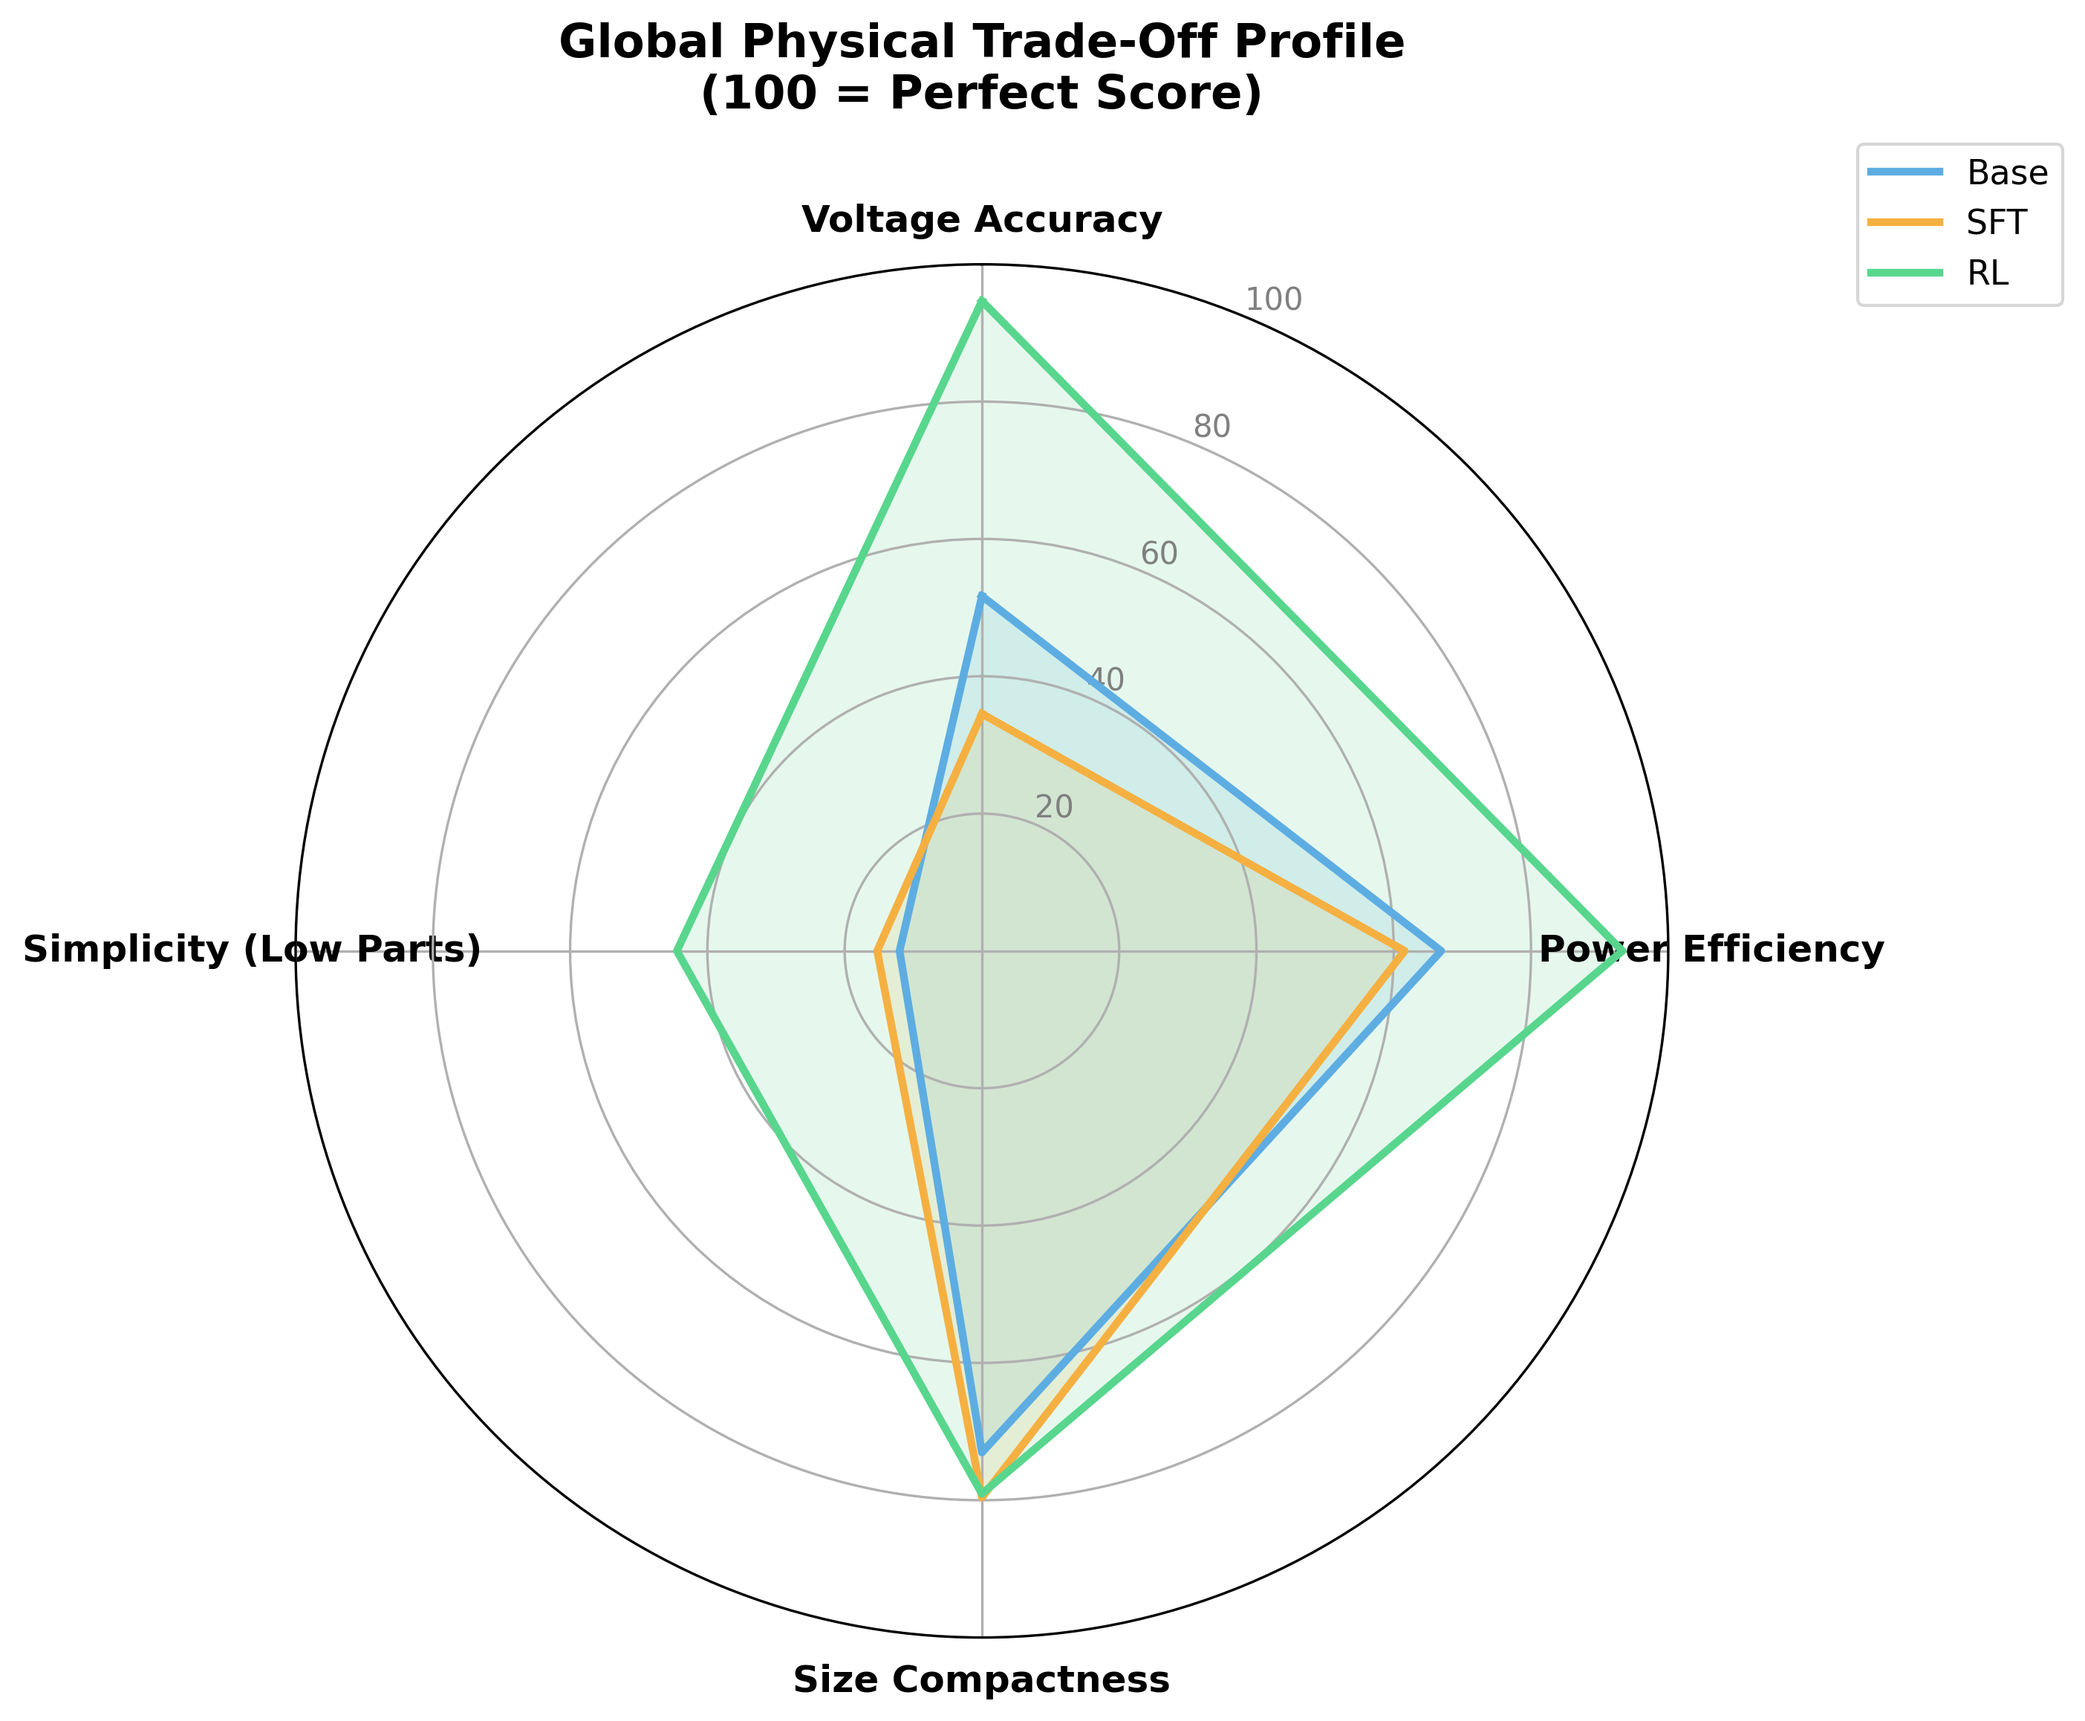
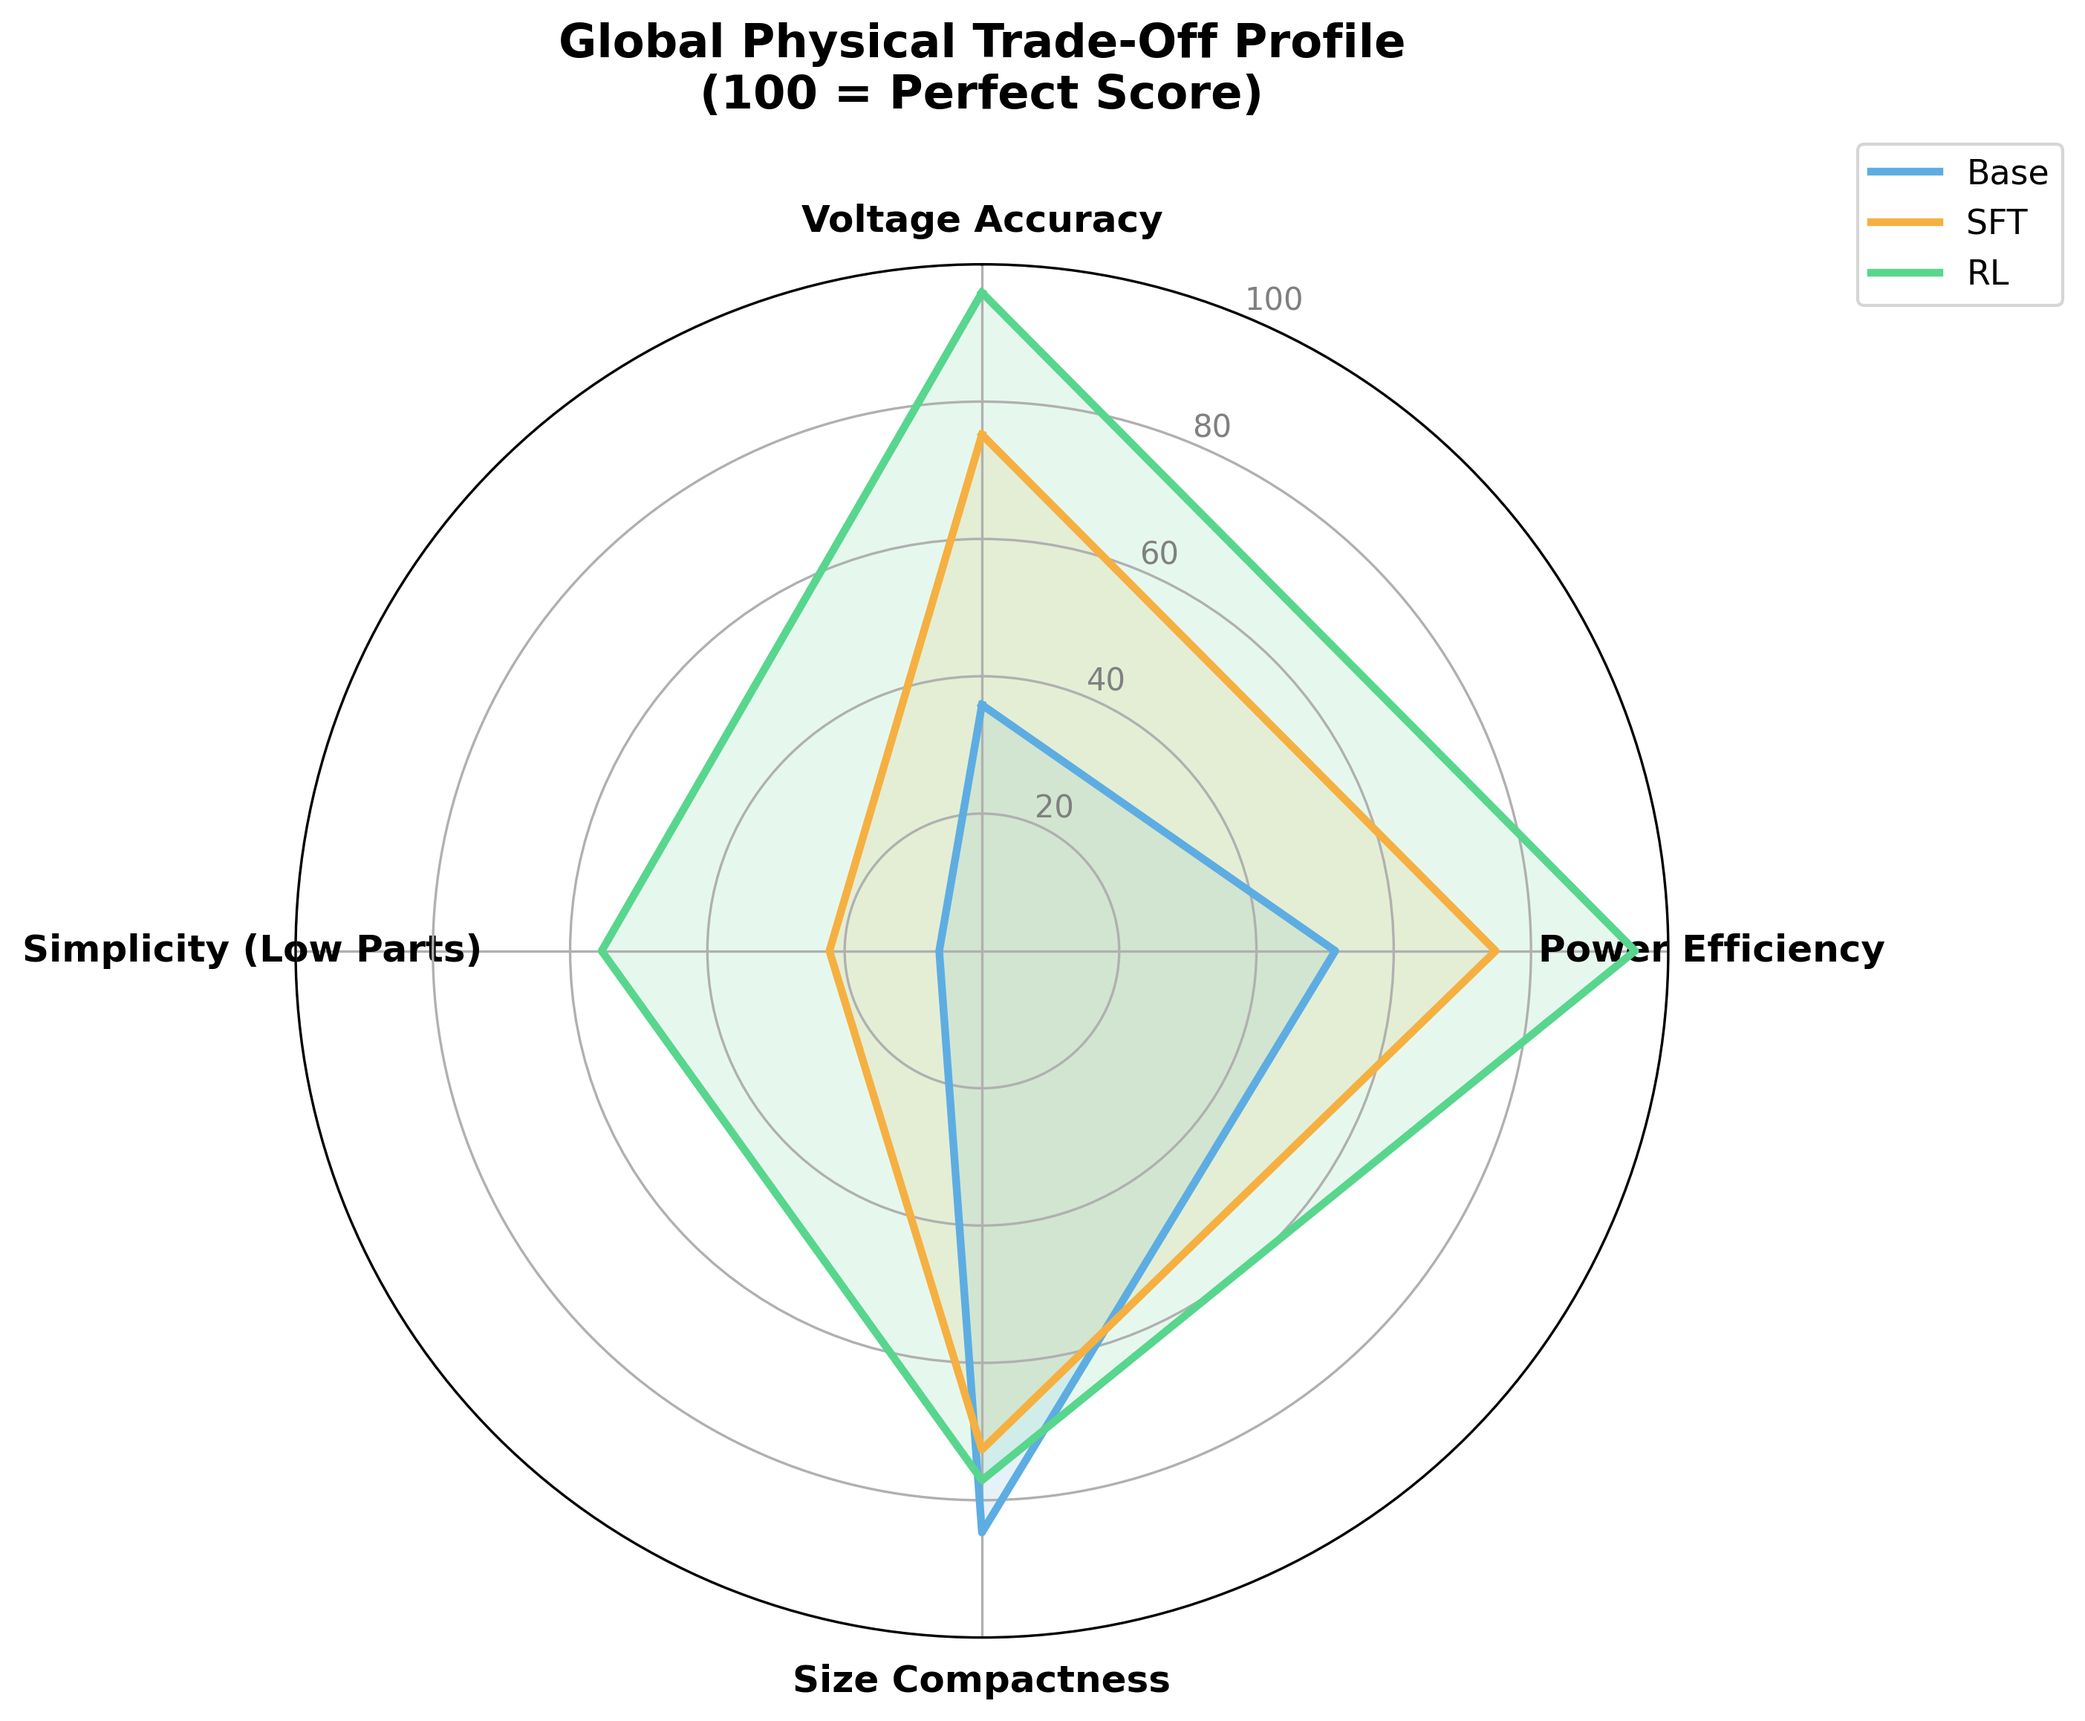
Fix test benchmark plots with more accurate values

diff --git a/experiments/test_experiments/test_global_plots.py b/experiments/test_experiments/test_global_plots.py
@@ -19,31 +19,59 @@ except ImportError as e:
     sys.exit(1)
 
 def generate_mock_trial(model, phase_power):
-    """Generates realistic fake data based on the model type."""
+    """Generates realistic fake data based on the SFT briefing and project specs."""
     is_base = model == "Base"
+    is_sft = model == "SFT"
     is_rl = model == "RL"
     
-    # Base model fails more often, RL almost never fails
-    if is_base and np.random.rand() < 0.4:
-        return {"fitness": -0.6, "auc": 0.0, "validity": 0.0, "learning_curve": [-0.6]*15, 
-                "v_error_pct": None, "efficiency": None, "volume": None, "components": None, "target_power": phase_power}
+    # --- 1. Validity Rates ---
+    if is_base:
+        validity = np.random.uniform(60.0, 70.0) # ~65% from briefing
+    elif is_sft:
+        validity = np.random.uniform(70.0, 80.0) # ~75% from briefing
+    else:
+        validity = np.random.uniform(98.0, 100.0) # 100% for RL
         
-    v_err = np.random.uniform(0.5, 5.0) if is_rl else np.random.uniform(10.0, 45.0)
-    eff = np.random.uniform(85, 98) if is_rl else np.random.uniform(40, 75)
-    fit = np.random.uniform(0.85, 0.99) if is_rl else np.random.uniform(0.5, 0.75)
+    # --- 2. Fitness & Pareto Metrics ---
+    # All models start with at least 1 valid topology, so fitness >= 0.5
+    curve_start = np.random.uniform(0.50, 0.55)
     
-    curve = np.linspace(-0.6, fit, 15) + np.random.normal(0, 0.05, 15)
-    curve = np.clip(curve, -0.6, 1.0).tolist()
+    if is_base:
+        fit = np.random.uniform(0.55, 0.65)
+        v_err = np.random.uniform(20.0, 45.0)
+        eff = np.random.uniform(40, 65)
+        auc_val = np.random.uniform(0.5, 0.6)
+        components = np.random.randint(15, 25)
+    elif is_sft:
+        fit = np.random.uniform(0.70, 0.85)
+        v_err = np.random.uniform(5.0, 20.0)
+        eff = np.random.uniform(65, 85)
+        auc_val = np.random.uniform(0.65, 0.8)
+        components = np.random.randint(8, 15)
+    else: # RL
+        fit = np.random.uniform(0.90, 0.99)
+        v_err = np.random.uniform(0.1, 4.0)
+        eff = np.random.uniform(90, 99)
+        auc_val = np.random.uniform(0.85, 0.98)
+        components = np.random.randint(5, 10)
+    
+    # --- 3. Learning Curves ---
+    # Interpolate from ~0.5 to final fitness, add slight variance
+    curve = np.linspace(curve_start, fit, 15) + np.random.normal(0, 0.02, 15)
+    
+    # Strictly enforce that no point drops below 0.5
+    curve[0] = max(0.5, curve[0]) 
+    curve = np.clip(curve, 0.5, 1.0).tolist()
     
     return {
         "fitness": fit,
-        "auc": np.random.uniform(0.4, 0.9),
-        "validity": np.random.uniform(80, 100) if is_rl else np.random.uniform(20, 60),
+        "auc": auc_val,
+        "validity": validity,
         "learning_curve": curve,
         "v_error_pct": v_err,
         "efficiency": eff,
         "volume": phase_power / np.random.uniform(0.5, 3.0),
-        "components": np.random.randint(5, 12) if is_rl else np.random.randint(10, 25),
+        "components": components,
         "target_power": phase_power
     }
 
